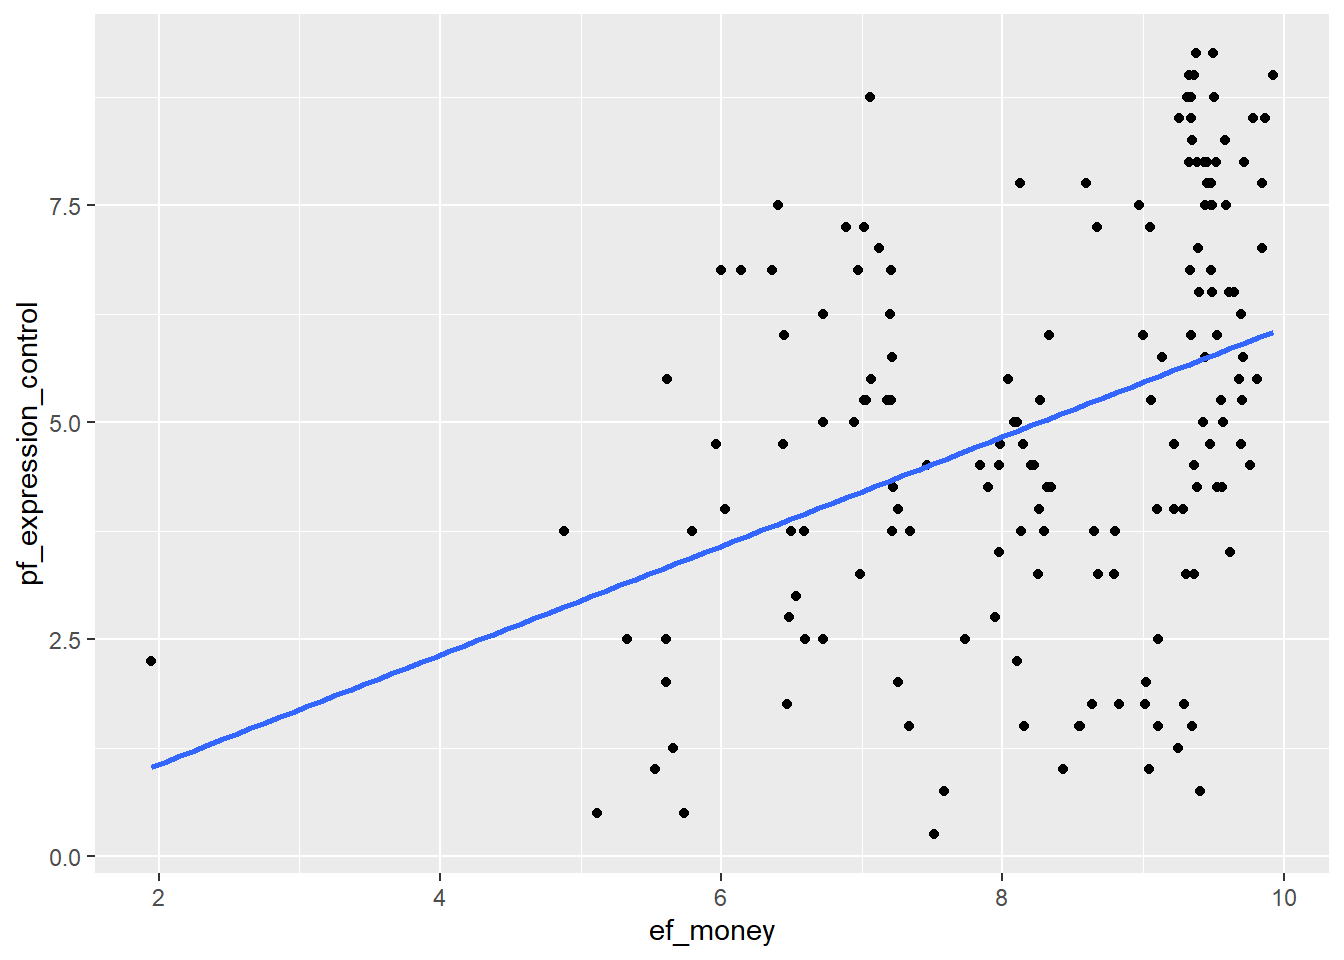
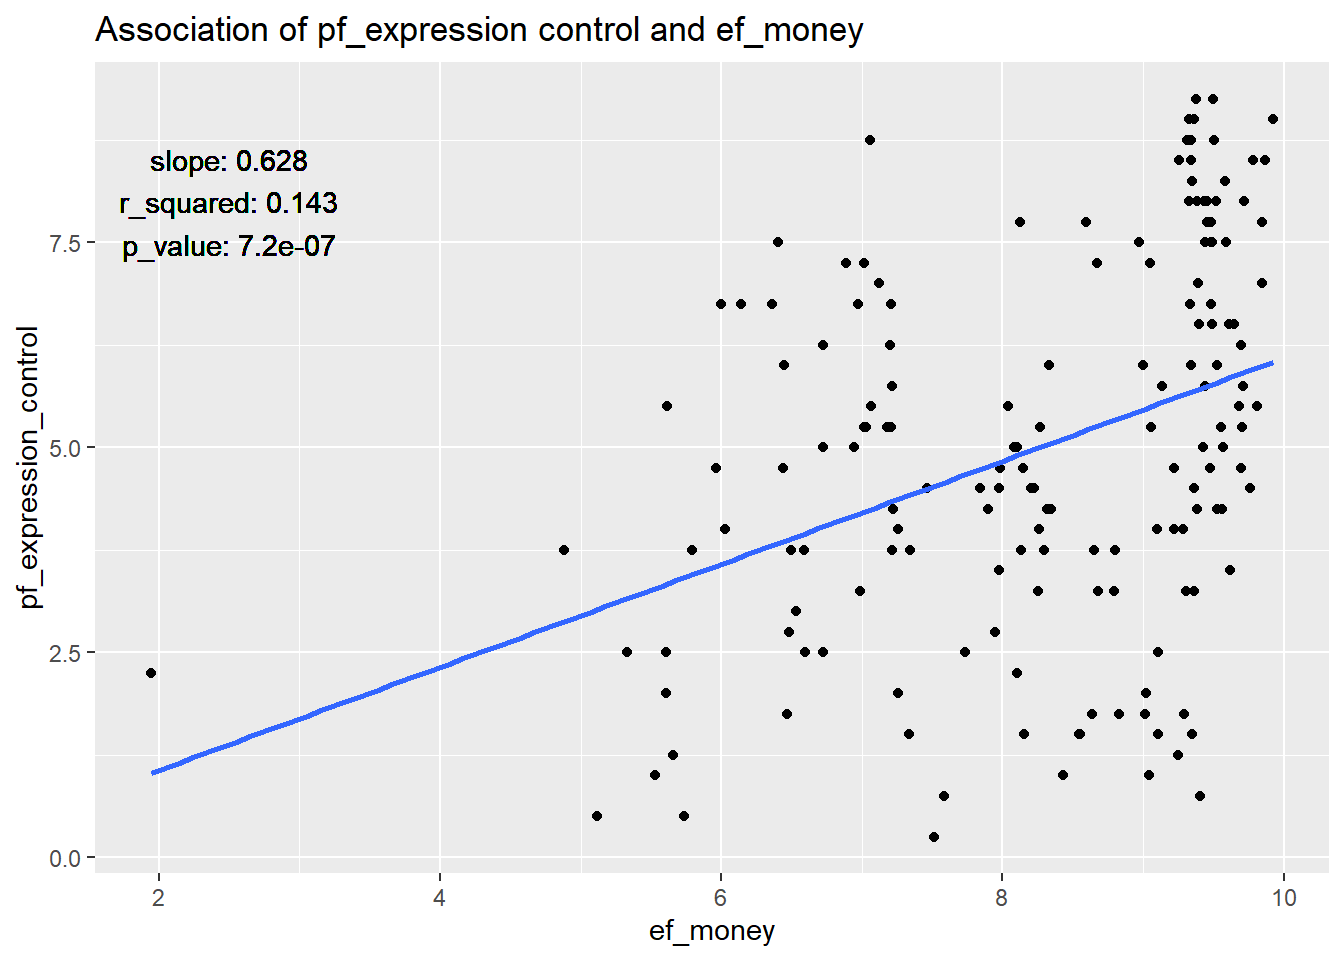
Build site.

diff --git a/docs/index.html b/docs/index.html
@@ -335,7 +335,7 @@ $(document).ready(function () {
 <div class="tab-content">
 <div id="summary" class="tab-pane fade in active">
 <p>
-<strong>Last updated:</strong> 2021-03-01
+<strong>Last updated:</strong> 2021-03-02
 </p>
 <p>
 <strong>Checks:</strong> <span class="glyphicon glyphicon-ok text-success" aria-hidden="true"></span> 7 <span class="glyphicon glyphicon-exclamation-sign text-danger" aria-hidden="true"></span> 0
@@ -426,16 +426,16 @@ This reproducible <a href="http://rmarkdown.rstudio.com">R Markdown</a> analysis
 <div class="panel panel-default">
 <div class="panel-heading">
 <p class="panel-title">
-<a data-toggle="collapse" data-parent="#workflowr-checks" href="#strongRepositoryversionstrongahrefhttpsgithubcommarcorheiniassignmentRcoursetreeacc054221f0fa4db5c686fdee013da8e9971ae5dtargetblankacc0542a"> <span class="glyphicon glyphicon-ok text-success" aria-hidden="true"></span> <strong>Repository version:</strong> <a href="https://github.com/marcorheini/assignment_Rcourse/tree/acc054221f0fa4db5c686fdee013da8e9971ae5d" target="_blank">acc0542</a> </a>
+<a data-toggle="collapse" data-parent="#workflowr-checks" href="#strongRepositoryversionstrongahrefhttpsgithubcommarcorheiniassignmentRcoursetree0bc7a464df719a3334ad0e161e77aecce3442809targetblank0bc7a46a"> <span class="glyphicon glyphicon-ok text-success" aria-hidden="true"></span> <strong>Repository version:</strong> <a href="https://github.com/marcorheini/assignment_Rcourse/tree/0bc7a464df719a3334ad0e161e77aecce3442809" target="_blank">0bc7a46</a> </a>
 </p>
 </div>
[2 lines of base64/hex data omitted]
 <div class="panel-body">
 <p>
 Great! You are using Git for version control. Tracking code development and connecting the code version to the results is critical for reproducibility.
 </p>
 <p>
-The results in this page were generated with repository version <a href="https://github.com/marcorheini/assignment_Rcourse/tree/acc054221f0fa4db5c686fdee013da8e9971ae5d" target="_blank">acc0542</a>. See the <em>Past versions</em> tab to see a history of the changes made to the R Markdown and HTML files.
+The results in this page were generated with repository version <a href="https://github.com/marcorheini/assignment_Rcourse/tree/0bc7a464df719a3334ad0e161e77aecce3442809" target="_blank">0bc7a46</a>. See the <em>Past versions</em> tab to see a history of the changes made to the R Markdown and HTML files.
 </p>
 <p>
 Note that you need to be careful to ensure that all relevant files for the analysis have been committed to Git prior to generating the results (you can use <code>wflow_publish</code> or <code>wflow_git_commit</code>). workflowr only checks the R Markdown file, but you know if there are other scripts or data files that it depends on. Below is the status of the Git repository when the results were generated:
@@ -481,6 +481,40 @@ Message
 </tr>
 </thead>
 <tbody>
+<tr>
+<td>
+Rmd
+</td>
+<td>
+<a href="https://github.com/marcorheini/assignment_Rcourse/blob/0bc7a464df719a3334ad0e161e77aecce3442809/analysis/index.Rmd" target="_blank">0bc7a46</a>
+</td>
+<td>
+marcorheini
+</td>
+<td>
+2021-03-02
+</td>
+<td>
+workflowr::wflow_publish(files = “analysis/index.Rmd”)
+</td>
+</tr>
+<tr>
+<td>
+html
+</td>
+<td>
+<a href="https://rawcdn.githack.com/marcorheini/assignment_Rcourse/3b78c0f8f19dcf6b47733a2c68c2e11933d492ec/docs/index.html" target="_blank">3b78c0f</a>
+</td>
+<td>
+marcorheini
+</td>
+<td>
+2021-03-01
+</td>
+<td>
+Build site.
+</td>
+</tr>
 <tr>
 <td>
 Rmd
@@ -589,94 +623,79 @@ v readr   1.4.0     v forcats 0.5.0</code></pre>
 <pre><code>-- Conflicts ------------------------------------------ tidyverse_conflicts() --
 x dplyr::filter() masks stats::filter()
 x dplyr::lag()    masks stats::lag()</code></pre>
-<pre class="r"><code>library(broom)</code></pre>
 </div>
-<div id="use-the-hfi-dataset-from-the-openintro-package" class="section level2">
-<h2>7. Use the hfi dataset from the <code>openintro</code> package</h2>
+<div id="assignment" class="section level2">
+<h2>Assignment</h2>
+<div id="use-the-hfi-dataset-from-the-openintro-package" class="section level4">
+<h4>7. Use the hfi dataset from the <code>openintro</code> package</h4>
 <pre class="r"><code>data(hfi)
-
+# we will use only the data from 2016 to avoid problems
 hfi_2016 &lt;- hfi %&gt;% filter(year==&#39;2016&#39;)</code></pre>
 </div>
-<div id="fit-a-new-model-that-uses-pf_expression_control-to-predict-hf_score-or-the-total-human-freedom-score." class="section level2">
-<h2>8. Fit a new model that uses <code>pf_expression_control</code> to predict <code>hf_score</code>, or the total human freedom score.</h2>
-<pre class="r"><code>linreg &lt;- lm(hf_score~pf_expression_control, data=hfi_2016)
-
-tidy(linreg)</code></pre>
-<pre><code># A tibble: 2 x 5
-  term                  estimate std.error statistic  p.value
-  &lt;chr&gt;                    &lt;dbl&gt;     &lt;dbl&gt;     &lt;dbl&gt;    &lt;dbl&gt;
-1 (Intercept)              5.05     0.123       41.1 5.97e-87
-2 pf_expression_control    0.368    0.0224      16.5 2.73e-36</code></pre>
+<div id="fit-a-new-model-that-uses-pf_expression_control-to-predict-hf_score-or-the-total-human-freedom-score." class="section level4">
+<h4>8. Fit a new model that uses <code>pf_expression_control</code> to predict <code>hf_score</code>, or the total human freedom score.</h4>
+<pre class="r"><code># fit the model
+Q8 &lt;- lm(hf_score~pf_expression_control, data=hfi_2016)</code></pre>
 </div>
-<div id="again-add-region-to-the-model-from-q4.-compare-the-slope-and-r2-with-the-model-from-q4." class="section level2">
-<h2>9. Again add region to the model from Q4. Compare the slope and <span class="math inline">\(R^2\)</span> with the model from Q4.</h2>
-<pre class="r"><code>linreg_region &lt;- lm(hf_score~pf_expression_control + region, data=hfi_2016)
-
-comp &lt;- tibble(category=c(&#39;intercept&#39;, &#39;slope&#39;, &#39;r_squared&#39;),
-              `score~expr_ctrl`=linreg$coefficients %&gt;% 
-                 as.numeric() %&gt;%
-                 c(.,summary(linreg)$r.squared),
-              `score~expr_ctrl+region`=linreg_region$coefficients[1:2] %&gt;% 
-                 as.numeric()%&gt;%
-                 c(.,summary(linreg_region)$r.squared),)
-
-comp</code></pre>
-<pre><code># A tibble: 3 x 3
-  category  `score~expr_ctrl` `score~expr_ctrl+region`
-  &lt;chr&gt;                 &lt;dbl&gt;                    &lt;dbl&gt;
-1 intercept             5.05                     6.05 
-2 slope                 0.368                    0.275
-3 r_squared             0.629                    0.754</code></pre>
-<p>The slope decreased for the model that includes the “region” while the R-squared value increased</p>
+<div id="again-add-region-to-the-model-from-q4.-compare-the-slope-and-r2-with-the-model-from-q4." class="section level4">
+<h4>9. Again add region to the model from Q4. Compare the slope and <span class="math inline">\(R^2\)</span> with the model from Q4.</h4>
+<pre class="r"><code># define a function that views the most important information
+view_param &lt;- function(models){
+  sapply(models, function(x){
+    c(x$coefficients[2] %&gt;% round(3), # slope
+      summary(x)$r.squared %&gt;% round(3), # r_squared
+      summary(x)$coefficients[2,4] %&gt;% formatC(digits = 2) # p-value
+    )  %&gt;% 
+      set_names(nm=c(&#39;slope&#39;, &#39;r_squared&#39;, &#39;p_value&#39;)) 
+  }) %&gt;% 
+    as.data.frame() %&gt;%
+    set_names(nm=paste0(&#39;m&#39;, c(1:length(models))))
+}
+# the model from Q4 was to predict the total score by using the variable ef_money
+Q4 &lt;- lm(hf_score~ef_money, data=hfi_2016)
+# fit the new models containing the region as exposure
+Q9 &lt;- lm(hf_score~ef_money + region, data=hfi_2016)
+#view most important information
+view_param(list(Q4, Q9))</code></pre>
+<pre><code>               m1      m2
+slope       0.504   0.364
+r_squared   0.425   0.744
+p_value   5.5e-21 1.3e-18</code></pre>
+<p>The slope decreased for the model that includes the “region” while the <span class="math inline">\(R^2\)</span> value increased</p>
 </div>
-<div id="finally-fit-a-model-with-ef_money-and-pf_expression_control-as-exposures-and-hf_score-as-outcome.-compare-the-slope-and-r2-from-the-models-from-q1.-could-ef_money-be-a-confounder" class="section level2">
-<h2>10. Finally fit a model with <code>ef_money</code> and <code>pf_expression_control</code> as exposures and <code>hf_score</code> as outcome. Compare the slope and <span class="math inline">\(R^2\)</span> from the models from Q1. Could <code>ef_money</code> be a confounder?</h2>
-<pre class="r"><code>linreg_money &lt;- lm(hf_score~pf_expression_control + ef_money, data=hfi_2016)
-
-comp &lt;- mutate(comp, `score~expr_ctrl+money`=linreg_money$coefficients[1:2] %&gt;% 
-                 as.numeric() %&gt;%
-                 c(.,summary(linreg_money)$r.squared))</code></pre>
+<div id="finally-fit-a-model-with-ef_money-and-pf_expression_control-as-exposures-and-hf_score-as-outcome.-compare-the-slope-and-r2-from-the-models-from-q1.-could-ef_money-be-a-confounder" class="section level4">
+<h4>10. Finally fit a model with <code>ef_money</code> and <code>pf_expression_control</code> as exposures and <code>hf_score</code> as outcome. Compare the slope and <span class="math inline">\(R^2\)</span> from the models from Q1. Could <code>ef_money</code> be a confounder?</h4>
+<pre class="r"><code># fit the model
+Q10 &lt;- lm(hf_score~ef_money + pf_expression_control, data=hfi_2016)
+#view most important information
+view_param(list(Q8, Q10))</code></pre>
+<pre><code>               m1      m2
+slope       0.368   0.318
+r_squared   0.629   0.774
+p_value   2.7e-36 7.7e-19</code></pre>
+<p>Since we can see that the <span class="math inline">\(R^2\)</span> value increases when both variables are included, but this increase is not very strong, we can assume that the addition of ef_money does not explain much more variance, and thus it might be the case that ef_money is a confounder of pf_expression_control.</p>
 </div>
-<div id="use-a-linear-regression-model-and-scatter-plot-with-ef_money-as-exposure-and-pf_expression_control-as-outcome-to-study-whether-ef_money-has-an-association-with-pf_expression_control-as-well.-this-might-validate-our-finding-that-ef_money-is-a-confounder-between-pf_expression_control-as-exposure-and" class="section level2">
-<h2>11. Use a linear regression model (and scatter plot) with <code>ef_money</code> as exposure and <code>pf_expression_control</code> as outcome, to study whether <code>ef_money</code> has an association with <code>pf_expression_control</code> as well. This might validate our finding that <code>ef_money</code> is a confounder between <code>pf_expression_control</code> as exposure and</h2>
+<div id="use-a-linear-regression-model-and-scatter-plot-with-ef_money-as-exposure-and-pf_expression_control-as-outcome-to-study-whether-ef_money-has-an-association-with-pf_expression_control-as-well.-this-might-validate-our-finding-that-ef_money-is-a-confounder-between-pf_expression_control-as-exposure-and" class="section level4">
+<h4>11. Use a linear regression model (and scatter plot) with <code>ef_money</code> as exposure and <code>pf_expression_control</code> as outcome, to study whether <code>ef_money</code> has an association with <code>pf_expression_control</code> as well. This might validate our finding that <code>ef_money</code> is a confounder between <code>pf_expression_control</code> as exposure and</h4>
 <p><code>hf_score</code> as outcome from Q6.</p>
-<pre class="r"><code>linreg_final &lt;- lm(pf_expression_control~ef_money, data=hfi_2016)
-summary(linreg_final)</code></pre>
-<pre><code>
-Call:
-lm(formula = pf_expression_control ~ ef_money, data = hfi_2016)
-
-Residuals:
-    Min      1Q  Median      3Q     Max 
--4.9646 -1.4800 -0.0326  1.8818  4.5114 
-
-Coefficients:
-            Estimate Std. Error t value Pr(&gt;|t|)    
-(Intercept)  -0.1945     1.0179  -0.191    0.849    
-ef_money      0.6283     0.1218   5.160 7.22e-07 ***
----
-Signif. codes:  0 &#39;***&#39; 0.001 &#39;**&#39; 0.01 &#39;*&#39; 0.05 &#39;.&#39; 0.1 &#39; &#39; 1
-
-Residual standard error: 2.159 on 160 degrees of freedom
-Multiple R-squared:  0.1427,    Adjusted R-squared:  0.1373 
-F-statistic: 26.63 on 1 and 160 DF,  p-value: 7.223e-07</code></pre>
-<pre class="r"><code>ggplot(hfi_2016, aes(x=ef_money, 
+<pre class="r"><code># fit the model
+Q11 &lt;- lm(pf_expression_control~ef_money, data=hfi_2016)
+# plot the results 
+ggplot(hfi_2016, aes(x=ef_money, 
                  y=pf_expression_control))+
   geom_point()+
-  geom_smooth(method=&#39;lm&#39;, se=F)</code></pre>
+  geom_smooth(method=&#39;lm&#39;, se=F)+
+  ggtitle(label = &#39;Association of pf_expression control and ef_money&#39;)+
+  geom_text(inherit.aes=FALSE, 
+            x=2.5, 
+            y=8, 
+            label=paste(rownames(view_param(list(Q11))),
+                        view_param(list(Q11))[[1]],
+                        sep=&#39;: &#39;)%&gt;% paste(., collapse = &#39;\n&#39;))</code></pre>
 <pre><code>`geom_smooth()` using formula &#39;y ~ x&#39;</code></pre>
 <p><img src="figure/index.Rmd/unnamed-chunk-6-1.png" width="672" style="display: block; margin: auto;" /></p>
-<pre class="r"><code>comp &lt;- mutate(comp, `expr_ctrl~money`=linreg_final$coefficients[1:2] %&gt;% 
-                 as.numeric() %&gt;%
-                 c(.,summary(linreg_final)$r.squared))
-
-comp</code></pre>
-<pre><code># A tibble: 3 x 5
-  category  `score~expr_ctrl` `score~expr_ctr~ `score~expr_ctr~ `expr_ctrl~mone~
-  &lt;chr&gt;                 &lt;dbl&gt;            &lt;dbl&gt;            &lt;dbl&gt;            &lt;dbl&gt;
-1 intercept             5.05             6.05             2.79            -0.195
-2 slope                 0.368            0.275            0.296            0.628
-3 r_squared             0.629            0.754            0.774            0.143</code></pre>
+<p>The slope indicates a positive correlation between the two variables. This correlation is highly significant according to the resulting p-value. Thus, the null hypothesis, which states that there is no relationship between the two variables, can be rejected. What means that the variables ef_money and pf_expression_control are most likely confounders and should not be used together for the prediction of the total human freedom score.</p>
+<p><img src="https://github.com/allisonhorst/stats-illustrations/blob/master/rstats-artwork/code_hero.jpg?raw=true" width="70%" style="display: block; margin: auto;" /></p>
 <br>
 <p>
 <button type="button" class="btn btn-default btn-workflowr btn-workflowr-sessioninfo" data-toggle="collapse" data-target="#workflowr-sessioninfo" style="display: block;">
@@ -700,19 +719,19 @@ attached base packages:
 [1] stats     graphics  grDevices utils     datasets  methods   base     
 
 other attached packages:
- [1] broom_0.7.3         forcats_0.5.0       stringr_1.4.0      
- [4] dplyr_1.0.2         purrr_0.3.4         readr_1.4.0        
- [7] tidyr_1.1.2         tibble_3.0.4        ggplot2_3.3.3      
-[10] tidyverse_1.3.0     openintro_2.0.0     usdata_0.1.0       
-[13] cherryblossom_0.1.0 airports_0.1.0      workflowr_1.6.2    
+ [1] forcats_0.5.0       stringr_1.4.0       dplyr_1.0.2        
+ [4] purrr_0.3.4         readr_1.4.0         tidyr_1.1.2        
+ [7] tibble_3.0.4        ggplot2_3.3.3       tidyverse_1.3.0    
+[10] openintro_2.0.0     usdata_0.1.0        cherryblossom_0.1.0
+[13] airports_0.1.0      workflowr_1.6.2    
 
 loaded via a namespace (and not attached):
  [1] Rcpp_1.0.5        lattice_0.20-41   lubridate_1.7.9.2 ps_1.5.0         
- [5] utf8_1.1.4        assertthat_0.2.1  rprojroot_2.0.2   digest_0.6.27    
- [9] R6_2.5.0          cellranger_1.1.0  backports_1.2.0   reprex_0.3.0     
-[13] evaluate_0.14     httr_1.4.2        pillar_1.4.7      rlang_0.4.9      
-[17] readxl_1.3.1      rstudioapi_0.13   whisker_0.4       Matrix_1.2-18    
-[21] rmarkdown_2.6     labeling_0.4.2    splines_4.0.3     munsell_0.5.0    
+ [5] assertthat_0.2.1  rprojroot_2.0.2   digest_0.6.27     R6_2.5.0         
+ [9] cellranger_1.1.0  backports_1.2.0   reprex_0.3.0      evaluate_0.14    
+[13] httr_1.4.2        pillar_1.4.7      rlang_0.4.9       readxl_1.3.1     
+[17] rstudioapi_0.13   whisker_0.4       Matrix_1.2-18     rmarkdown_2.6    
+[21] labeling_0.4.2    splines_4.0.3     munsell_0.5.0     broom_0.7.3      
 [25] compiler_4.0.3    httpuv_1.5.5      modelr_0.1.8      xfun_0.19        
 [29] pkgconfig_2.0.3   mgcv_1.8-33       htmltools_0.5.0   tidyselect_1.1.0 
 [33] fansi_0.4.1       crayon_1.3.4      dbplyr_2.0.0      withr_2.3.0      
@@ -723,6 +742,7 @@ loaded via a namespace (and not attached):
 [53] ellipsis_0.3.1    generics_0.1.0    vctrs_0.3.6       tools_4.0.3      
 [57] glue_1.4.2        hms_0.5.3         yaml_2.2.1        colorspace_2.0-0 
 [61] rvest_0.3.6       knitr_1.30        haven_2.3.1      </code></pre>
+</div>
 </div>
 </div>
 
